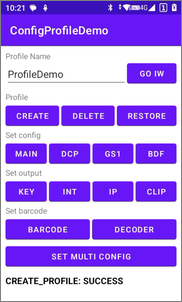
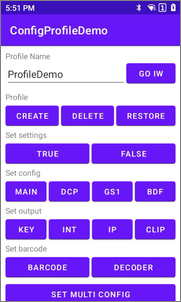
update ConfigProfileDemo, add set settings demo

diff --git a/ConfigProfileDemo/app/src/main/java/com/chainway/configprofiledemo/MainActivity.java b/ConfigProfileDemo/app/src/main/java/com/chainway/configprofiledemo/MainActivity.java
@@ -40,6 +40,9 @@ public class MainActivity extends AppCompatActivity {
         findViewById(R.id.button_set_barcode).setOnClickListener(v -> setBarcode());
         findViewById(R.id.button_set_decoder).setOnClickListener(v -> setDecoder());
 
+        findViewById(R.id.button_set_settings_true).setOnClickListener(v -> setSettings("true"));
+        findViewById(R.id.button_set_settings_false).setOnClickListener(v -> setSettings("false"));
+
         findViewById(R.id.button_set_multi_config).setOnClickListener(v -> setMultiConfig());
 
         // register broadcast receiver and filter results
@@ -538,6 +541,23 @@ public class MainActivity extends AppCompatActivity {
         i.putExtra("com.symbol.infowedge.api.SET_CONFIG", bMain);
         i.putExtra("SEND_RESULT", "true");
         i.putExtra("COMMAND_IDENTIFIER", "SET_DECODER");
+        sendBroadcast(i);
+    }
+
+    // set InfoWedge parameters
+    private void setSettings(String value) {
+        Intent i = new Intent();
+        i.setAction("com.symbol.infowedge.api.ACTION");
+
+        Bundle bSettings = new Bundle();
+        bSettings.putString("logging_enabled", value); // enable logging
+        bSettings.putString("anyconfig_code_enabled", value); // enable Anyconfig barcode configuration
+        bSettings.putString("open_web_link_enabled", value); // enable open web link from barcode
+        bSettings.putString("add_wifi_enabled", value); // enable add WiFi from barcode
+
+        i.putExtra("com.symbol.infowedge.api.SET_SETTINGS", bSettings);
+        i.putExtra("SEND_RESULT", "true");
+        i.putExtra("COMMAND_IDENTIFIER", "SET_SETTINGS");
         sendBroadcast(i);
     }
 

diff --git a/ConfigProfileDemo/README.md b/ConfigProfileDemo/README.md
@@ -22,20 +22,22 @@ This sample application demonstrates how to configure the InfoWedge profile usin
     - [Click the CREATE button to create a new profile.](#create-a-new-profile)
     - [Click the DELETE button to delete a specific profile.](#delete-a-specific-profile)
     - [Click the RESTORE button to restore the default InfoWedge settings.](#restore-the-default-settings)
-4. **Set the profile configurations**
+4. **Set settings**
+    - [Click the TRUE or FALSE button to set the InfoWedge parameters.](#set-settings)
+5. **Set the profile configurations**
     - [Click the MAIN button to set the main configurations.](#set-the-main-configurations)
     - [Click the DCP button to set the DCP parameters.](#set-the-dcp-parameters)
     - [Click the GS1 button to set the GS1 parameters.](#set-the-gs1-parameters)
     - [Click the BDF button to set the BDF parameters.](#set-the-bdf-parameters)
-5. **Set output configurations**
+6. **Set output configurations**
     - [Click the KEY button to set the keystroke output parameters.](#set-the-keystroke-output-parameters)
     - [Click the INT button to set the intent output parameters.](#set-the-intent-output-parameters)
     - [Click the IP button to set the ip output parameters.](#set-the-ip-output-parameters)
     - [Click the CLIP button to set the clipboard output parameters.](#set-the-clipboard-output-parameters)
-6. **Set barcode**
+7. **Set barcode**
     - [Click the BARCODE button to set the barcode parameters.](#set-the-barcode-parameters)
     - [Click the DECODER button to set the decoder parameters.](#set-the-decoder-parameters)
-7. **Set multiple configurations**
+8. **Set multiple configurations**
     - [Click the SET MULTI CONFIG button to set multiple configurations in one go.](#set-multiple-configurations)
 
 ## Sample code walk-through
@@ -89,6 +91,34 @@ This sample application demonstrates how to configure the InfoWedge profile usin
     ```
 
     ![result.png](./pics/result.png)
+
+### Set Settings
+
+Set the InfoWedge parameters.
+
+```java
+// send broadcast
+Intent i = new Intent();
+i.setAction("com.symbol.infowedge.api.ACTION");
+
+Bundle bSettings = new Bundle();
+bSettings.putString("logging_enabled", "true"); // enable logging
+bSettings.putString("anyconfig_code_enabled", "true"); // enable Anyconfig barcode configuration
+bSettings.putString("open_web_link_enabled", "true"); // enable open web link from barcode
+bSettings.putString("add_wifi_enabled", "true"); // enable add WiFi from barcode
+
+i.putExtra("com.symbol.infowedge.api.SET_SETTINGS", bSettings);
+sendBroadcast(i);
+```
+
+**Parameters description:**
+
+- **logging_enabled** - Whether to enable logging, the value is `"true"` or `"false"`
+- **anyconfig_code_enabled** - Whether to enable Anyconfig barcode configuration, the value is `"true"` or `"false"`
+- **open_web_link_enabled** - Whether to enable open web link from barcode, the value is `"true"` or `"false"`
+- **add_wifi_enabled** - Whether to enable add WiFi from barcode, the value is `"true"` or `"false"`
+
+![settings.png](./pics/settings.png) ![settings_iw1.png](./pics/settings_iw1.png) ![settings_iw2.png](./pics/settings_iw2.png)
 
 ### Manage profiles
 

diff --git a/ConfigProfileDemo/README_zh-CN.md b/ConfigProfileDemo/README_zh-CN.md
@@ -6,7 +6,7 @@
 
 ## 演示环境
 
-- InfoWedge - v1.83
+- InfoWedge - v1.84
 - 设备 - MC62
 - 扫描头 - SE4710
 
@@ -22,20 +22,22 @@
     - [点击 CREATE 按钮创建一个新配置文件。](#创建一个新配置)
     - [点击 DELETE 按钮删除指定的配置文件。](#删除指定的配置)
     - [点击 RESTORE 按钮恢复 InfoWedge 默认设置。](#恢复默认设置)
-4. **设置配置文件参数**
+4. **设置 InfoWedge 参数**
+    - [点击 TRUE 或 FALSE 按钮设置 InfoWedge 参数。](#设置-infowedge-参数-set-settings)
+5. **设置配置文件参数**
     - [点击 MAIN 按钮设置主要配置。](#设置主要配置)
     - [点击 DCP 按钮设置 DCP 参数。](#设置-dcp-参数)
     - [点击 GS1 按钮设置 GS1 参数。](#设置-gs1-参数)
     - [点击 BDF 按钮设置 BDF 参数。](#设置-bdf-参数)
-5. **设置输出配置**
+6. **设置输出配置**
     - [点击 KEY 按钮设置按键输出参数。](#设置按键输出参数)
     - [点击 INT 按钮设置 Intent 输出参数。](#设置-intent-输出参数)
     - [点击 IP 按钮设置 IP 输出参数。](#设置-ip-输出参数)
     - [点击 CLIP 按钮设置剪贴板输出参数。](#设置剪贴板输出参数)
-6. **设置条码**
+7. **设置条码**
     - [点击 BARCODE 按钮设置条码参数。](#设置条码参数)
     - [点击 DECODER 按钮设置解码器参数。](#设置解码器参数)
-7. **设置多个配置**
+8. **设置多个配置**
     - [点击 SET MULTI CONFIG 按钮一次性设置多个配置。](#设置多个配置)
 
 ## 示例代码说明
@@ -89,6 +91,32 @@
     ```
 
     ![result.png](./pics/result.png)
+
+### 设置 InfoWedge 参数 （Set Settings）
+
+```java
+// 发送广播
+Intent i = new Intent();
+i.setAction("com.symbol.infowedge.api.ACTION");
+
+Bundle bSettings = new Bundle();
+bSettings.putString("logging_enabled", "true"); // 启用日志记录
+bSettings.putString("anyconfig_code_enabled", "true"); // 启用 Anyconfig 扫码配置
+bSettings.putString("open_web_link_enabled", "true"); // 启用扫码打开网页链接
+bSettings.putString("add_wifi_enabled", "true"); // 启用扫码添加 WiFi
+
+i.putExtra("com.symbol.infowedge.api.SET_SETTINGS", bSettings);
+sendBroadcast(i);
+```
+
+**参数说明：**
+
+- **logging_enabled** - 是否启用日志记录，取值为 `"true"` 或 `"false"`
+- **anyconfig_code_enabled** - 是否启用 Anyconfig 扫码配置，取值为 `"true"` 或 `"false"`
+- **open_web_link_enabled** - 是否启用扫码打开网页链接，取值为 `"true"` 或 `"false"`
+- **add_wifi_enabled** - 是否启用扫码添加 WiFi，取值为 `"true"` 或 `"false"`
+
+![settings.png](./pics/settings.png) ![settings_iw1.png](./pics/settings_iw1.png) ![settings_iw2.png](./pics/settings_iw2.png)
 
 ### 管理配置文件
 
